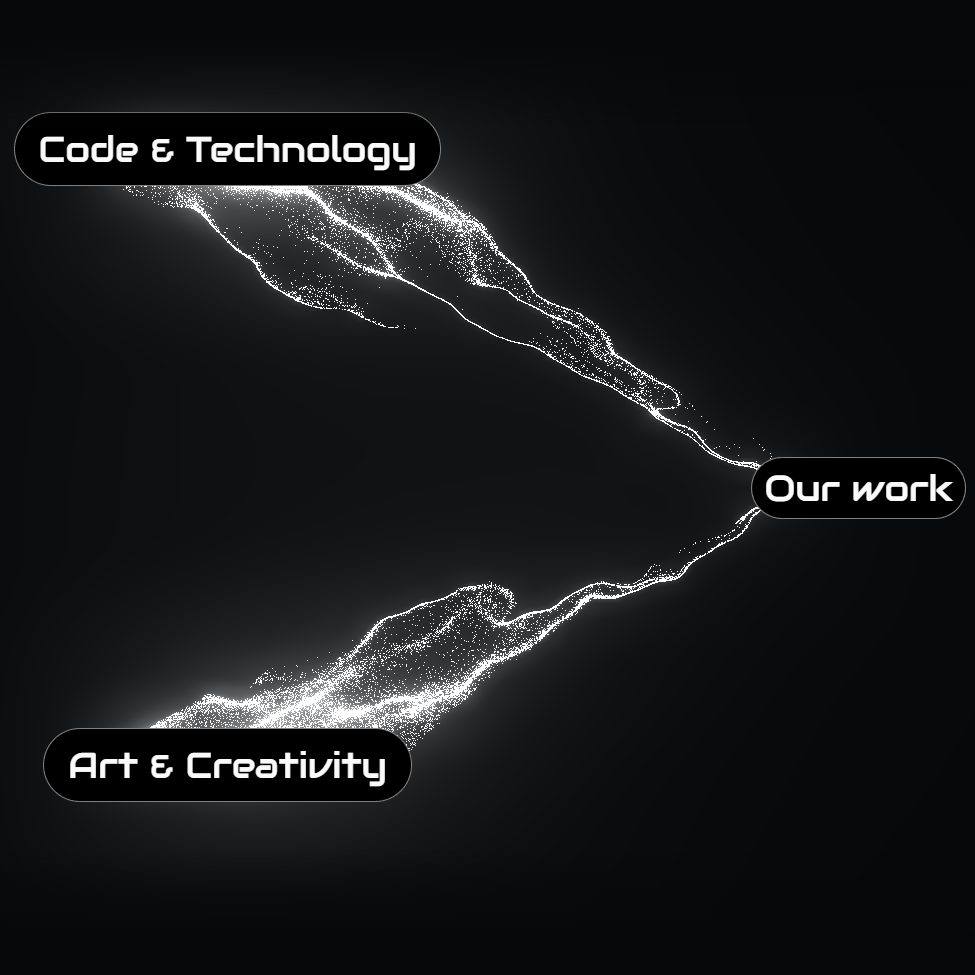
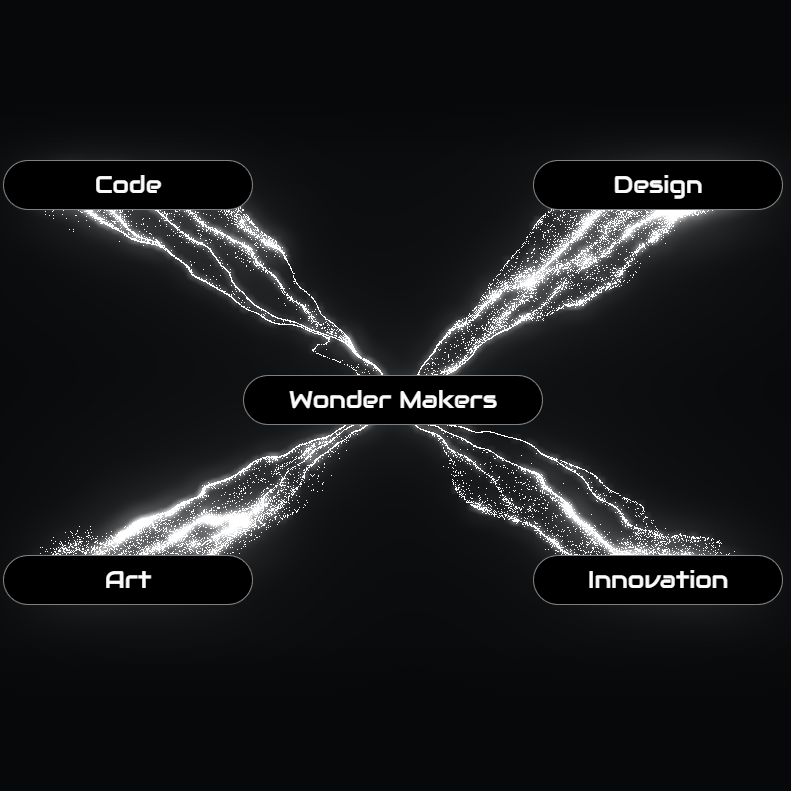
furthely advanced the partciels4 project

Changed region(s): [[0.0303, 0.091, 0.9709, 0.8496], [0.7282, 0.4551, 1.0, 0.5461]]

diff --git a/src/routes/64-three-js-shaders-interactive-particles4/+page.svelte b/src/routes/64-three-js-shaders-interactive-particles4/+page.svelte
@@ -2,6 +2,32 @@
 	import Sketch from './app.js';
 	import Button from './button.svelte';
 
+	let mouseX = $state(0);
+	let mouseY = $state(0);
+	let isMobile = $state(true);
+	let mounted = $state(false);
+
+	$effect(() => {
+		mounted = true;
+		const checkMobile = () => {
+			isMobile = window.innerWidth < 1024;
+		};
+		checkMobile();
+		window.addEventListener('resize', checkMobile);
+		return () => window.removeEventListener('resize', checkMobile);
+	});
+
+	function handleMouseMove(event: MouseEvent) {
+		if (!isMobile) {
+			const rect = (event.currentTarget as HTMLElement).getBoundingClientRect();
+			mouseX = event.clientX - rect.left - rect.width / 2;
+			mouseY = event.clientY - rect.top - 35;
+		} else {
+			mouseX = 0;
+			mouseY = 200;
+		}
+	}
+
 	$effect(() => {
 		const sketch = new Sketch({
 			dom: document.getElementById('container')
@@ -21,21 +47,26 @@
 	<div
 		class="w-[600px] h-[300px] lg:w-[1200px] lg:h-[600px] flex absolute z-10"
 		style="background: linear-gradient(to bottom, #070809 0%, transparent 10%, transparent 90%, #070809 100%), linear-gradient(to left, #070809 0%, transparent 10%, transparent 90%, #070809 100%)"
+		role="presentation"
+		onmousemove={handleMouseMove}
 	>
 		<div
 			class="absolute size-full justify-between left-1/2 top-1/2 text-center -translate-y-1/2 -translate-x-1/2 flex flex-col items-center"
 		>
 			<Button
 				text="Wonder Makers"
-				width="w-[180px] lg:w-[300px]"
-				class_="top-1/2 left-1/2 -translate-x-1/2"
+				width="w-[150px] lg:w-[200px]"
+				class_=""
+				style="transform: translate3d({mounted && !isMobile ? mouseX : 0}px, {mounted && !isMobile
+					? mouseY
+					: 130}px, 0)"
 			/>
-			<Button text="Code" class_="top-[40px] lg:top-[85px] left-[120px] lg:left-[210px]" />
-			<Button text="Design" class_="top-[40px] lg:top-[85px] right-[120px] lg:right-[210px]" />
-			<Button text="Art" class_="bottom-[30px] lg:bottom-[70px] left-[120px] lg:left-[210px]" />
+			<Button text="Code" class_="top-[30px] lg:top-[85px] left-[110px] lg:left-[210px]" />
+			<Button text="Design" class_="top-[30px] lg:top-[85px] right-[110px] lg:right-[210px]" />
+			<Button text="Art" class_="bottom-[25px] lg:bottom-[70px] left-[110px] lg:left-[210px]" />
 			<Button
 				text="Innovation"
-				class_="bottom-[30px] lg:bottom-[70px] right-[120px] lg:right-[210px]"
+				class_="bottom-[25px] lg:bottom-[70px] right-[110px] lg:right-[210px]"
 			/>
 		</div>
 	</div>

diff --git a/src/routes/64-three-js-shaders-interactive-particles4/app.js b/src/routes/64-three-js-shaders-interactive-particles4/app.js
@@ -69,22 +69,33 @@ export default class Sketch {
 		this.targetMouse = new THREE.Vector3(0, 0, 0);
 
 		window.addEventListener('pointermove', (e) => {
-			// Get canvas bounds
-			const rect = this.renderer.domElement.getBoundingClientRect();
-			// Calculate mouse position relative to canvas
-			const x = e.clientX - rect.left;
-			const y = e.clientY - rect.top;
+			// Only handle mouse move on larger screens
+			if (window.innerWidth >= 1024) {
+				const rect = this.renderer.domElement.getBoundingClientRect();
 
-			// Convert to normalized device coordinates
-			this.pointer.x = (x / this.width) * 2 - 1;
-			this.pointer.y = -(y / this.height) * 2 + 1;
+				if (
+					e.clientX >= rect.left &&
+					e.clientX <= rect.right &&
+					e.clientY >= rect.top &&
+					e.clientY <= rect.bottom
+				) {
+					const x = e.clientX - rect.left;
+					const y = e.clientY - rect.top;
 
-			this.raycaster.setFromCamera(this.pointer, this.camera);
+					this.pointer.x = (x / this.width) * 2 - 1;
+					this.pointer.y = -(y / this.height) * 2 + 1;
 
-			let intersects = this.raycaster.intersectObject(this.dummy);
-			if (intersects.length > 0) {
-				let point = intersects[0].point;
-				this.targetMouse.copy(point);
+					this.raycaster.setFromCamera(this.pointer, this.camera);
+
+					let intersects = this.raycaster.intersectObject(this.dummy);
+					if (intersects.length > 0) {
+						let point = intersects[0].point;
+						this.targetMouse.copy(point);
+					}
+				}
+			} else {
+				// Set fixed center position for small screens
+				this.targetMouse.set(0, 0, 0);
 			}
 		});
 

diff --git a/src/routes/64-three-js-shaders-interactive-particles4/button.svelte b/src/routes/64-three-js-shaders-interactive-particles4/button.svelte
@@ -2,12 +2,14 @@
 	export let text: string;
 	export let class_: string = '';
 	export let width: string = '';
+	export let style: string = '';
 </script>
 
 <h1
 	class="absolute {width
 		? width
-		: 'w-[140px] lg:w-[250px]'} -translate-y-1/2 text-sm lg:text-2xl font-audiowide bg-black rounded-full py-1 px-3 lg:py-2 lg:px-4 border border-white/50 whitespace-nowrap {class_}"
+		: 'w-[140px] lg:w-[250px]'} -translate-y-1/2 text-sm lg:text-[18px] font-audiowide bg-black rounded-full py-1 px-3 lg:py-2 lg:px-4 border border-white/50 whitespace-nowrap {class_}"
+	{style}
 >
 	{text}
 </h1>
